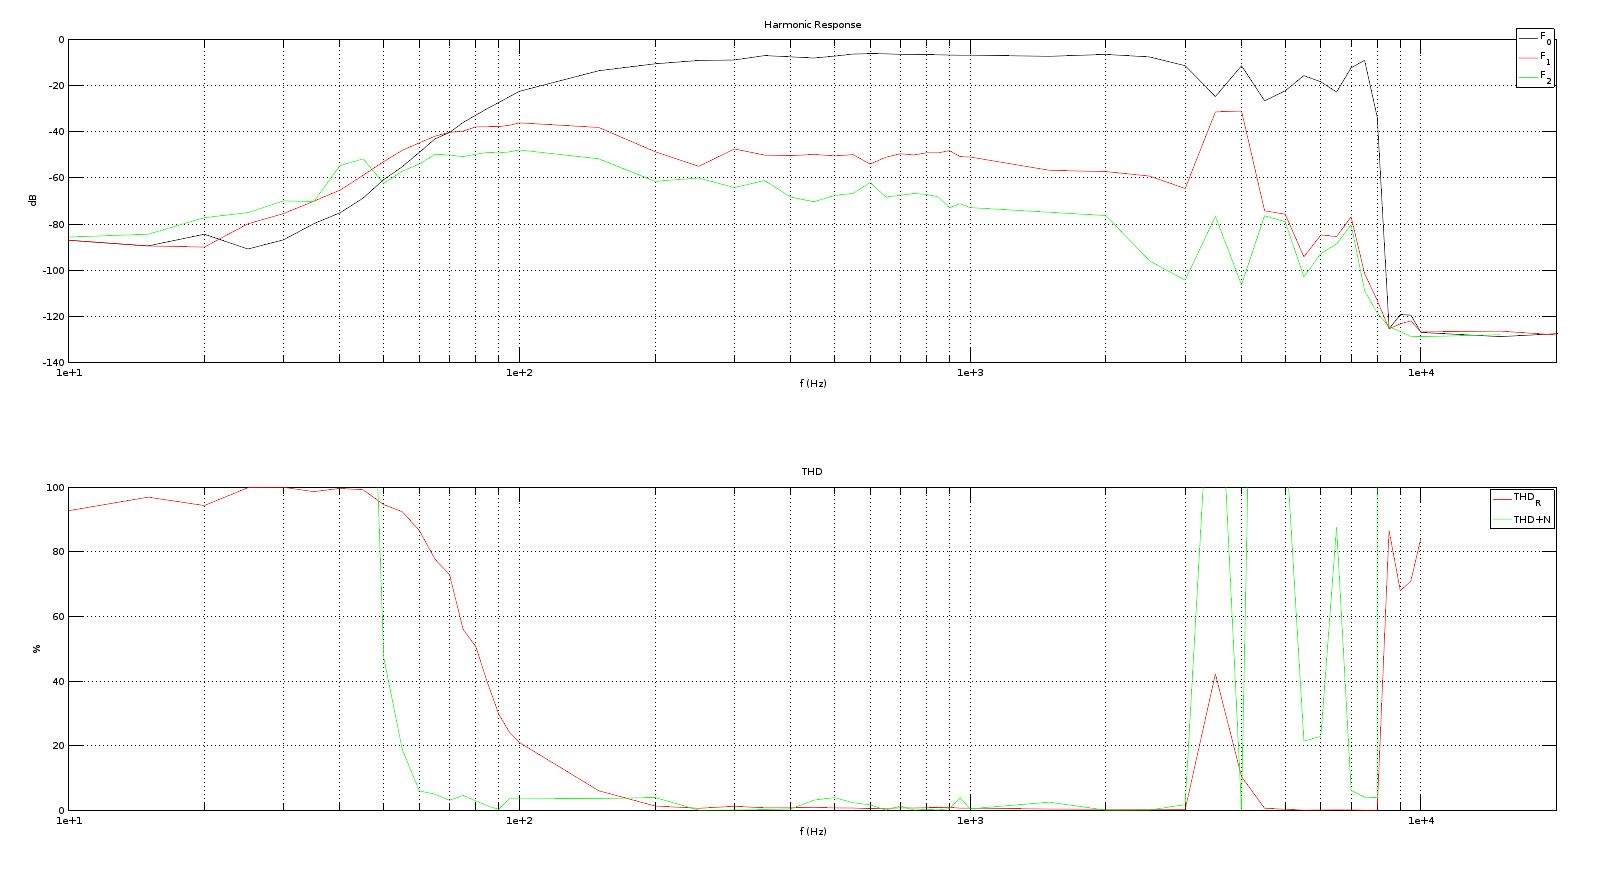
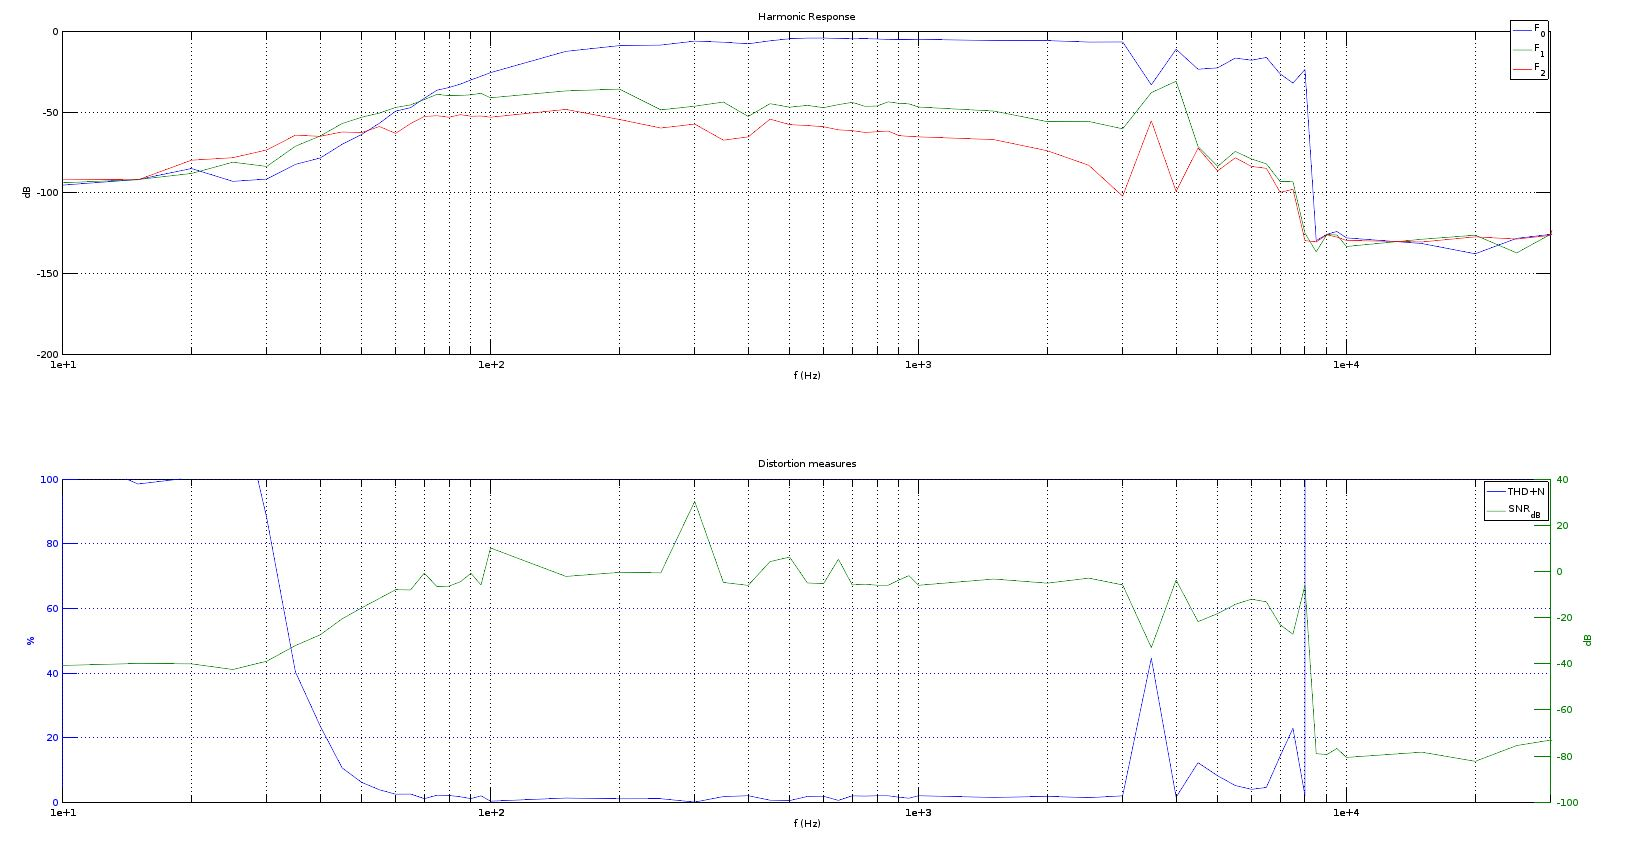
Apha Version: -measure function implemented -optimization and some bugs fixed

diff --git a/src/measure.m b/src/measure.m
@@ -20,20 +20,21 @@ function measure(f, order)
 	%else exit;
 	endif
 	
+	f = min(max(f,10),30000);
 	order = min(max(order,1),4);
 	
-	Fmax = 4*order*f;
+	Fmax = 2*order*f;
 	
-	Fs = min(max(Fmax,1000),192000) %sampling rate (1kHz<Fs<192kHz)
-	df = f/2; % df : biggest value < smallest step
+	Fs = min(max(2*Fmax,1000),192000); %sampling rate (1kHz<Fs<192kHz)
+	df = f/50; % df : 20pts per harmonic
 	N = ceil(Fs/df); %number of samples
-	T = N/Fs; % min observation period
+	T = min(2*max(N/Fs,0.5),6); % min observation period
 
 	%recording @ <Fs>Hz sample rate, 16 bits, mono
 	recorder = audiorecorder (Fs, 16, 1);
 
 	record (recorder);
-	sleep(1);
+	sleep(T);
 
 	%retrieving the data
 	data = getaudiodata(recorder);    
@@ -42,9 +43,13 @@ function measure(f, order)
 	signal = data(end-N:end-1); %extract the response signal
 	[fourier, H, THD, SNR] = analyze(signal, Fs, f, order);
 	
-	plot(fourier(1,:),fourier(2,:));
-	printf('F_0 : %d dB\n\rF_1 : %d dB\n\rF_2 : %d dB\n\rTHD : %d %%\n\rSNR : %d dB\n\r',
-			H(1),H(2),H(3),THD,SNR);
+	plot(fourier(1,2:end),(fourier(2,2:end)));
+		title('FFT')
+		xlabel('f (Hz)')
+		ylabel('|S(f)|')
+		axis ([10 (order+1)*f]);
+	printf('F_0 : %d dB_rel\n\rF_1 : %d dB_rel\n\rF_2 : %d dB_rel\n\rTHD+N : %d %%\n\rSNR : %d dB\n\r',
+			20*log10(H(1)/H(1)),20*log10(H(2)/H(1)),20*log10(H(3)/H(1)),THD,SNR);
 
 endfunction
 %--------------------------------------EOF--------------------------------------

diff --git a/src/sweep.m b/src/sweep.m
@@ -17,8 +17,8 @@ function sweep(low,high,order,boolPlot)
 	
 	%assertion
 	if nargin < 1
-		low = 10;
-		high = 30000;
+		low = 20;
+		high = 20000;
 		order = 2;
 		boolPlot = 1;
 	elseif nargin < 3
@@ -41,9 +41,9 @@ function sweep(low,high,order,boolPlot)
 	a = floor(log10(low));
 	b = floor(log10(high));
 	
-	Fmax = 2*order*(10^(b+1));
+	Fmax = order*(10^(b+1));
 	
-	Fs = min(max(Fmax,1000),192000) %sampling rate (1kHz<Fs<192kHz)
+	Fs = min(max(2*Fmax,1000),192000) %sampling rate (1kHz<Fs<192kHz)
 	df = (10^a)/2; % df : biggest value < smallest step
 	N = ceil(Fs/df) %number of samples
 	T = N/Fs; % min observation period
@@ -70,7 +70,6 @@ function sweep(low,high,order,boolPlot)
 			%retrieving the data
 			data = getaudiodata(recorder);    
 			stop(player);
-			length(data)
 			
 			signal = data(end-N:end-1); %extract the response signal
 			[fourier, H, THD, SNR] = analyze(signal, Fs, f, order);
@@ -99,7 +98,7 @@ function sweep(low,high,order,boolPlot)
 			xlabel('f (Hz)')
 			ylabel(w(1),'%')
 			ylabel(w(2),'dB')
-			legend('THD_R','SNR_d_B')
+			legend('THD+N','SNR_d_B')
 			grid on
 			axis (w(1), [low high 0 100])
 			axis (w(2), [low high]);

diff --git a/src/analyze.m b/src/analyze.m
@@ -39,9 +39,9 @@ function [fourier, H, THD, SNR] = analyze(signal, Fs, fgen, order)
 	% parasite signal created by the system (harmonics + noise)
 	hn = signal - fund;
 	
-	%THD(1) = 100*sqrt(sum(H(2:order).^2))/H(1); %THD_F
-	THD = 100*sqrt(sum(H(2:order).^2)/sum(H(1:order).^2)); %THD_R
-	%THD(3) = rms(hn)/rms(fund); %THD+N
+	%THD = 100*sqrt(sum(H(2:order).^2))/H(1); %THD_F
+	%THD = 100*sqrt(sum(H(2:order).^2)/sum(H(1:order).^2)); %THD_R
+	THD = rms(hn)/rms(fund); %THD+N
 		
 	SNR = 20*log10(rms(fund)/rms(hn)); %SNR to dB
 	

diff --git a/test.m b/test.m
@@ -42,7 +42,7 @@ clear;
 clc;
 %clf;
 
-sweep(10000,30000,3);
-%test_measure(10000);
+sweep(10,30000,3);
+%test_measure(400);
 
 %--------------------------------------EOF--------------------------------------
